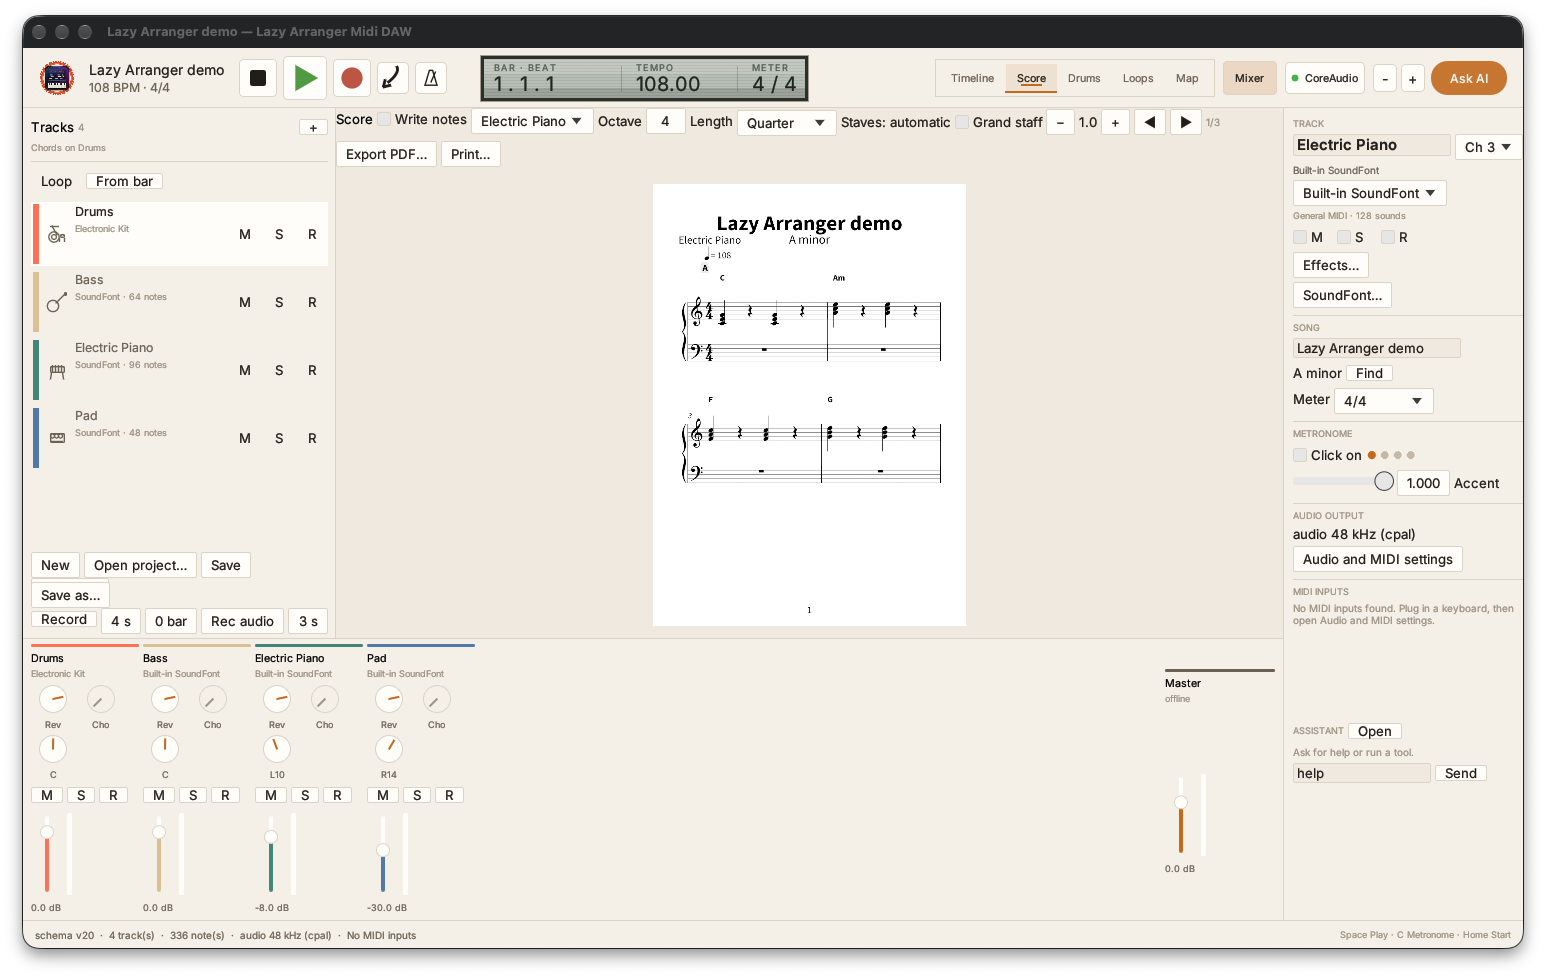
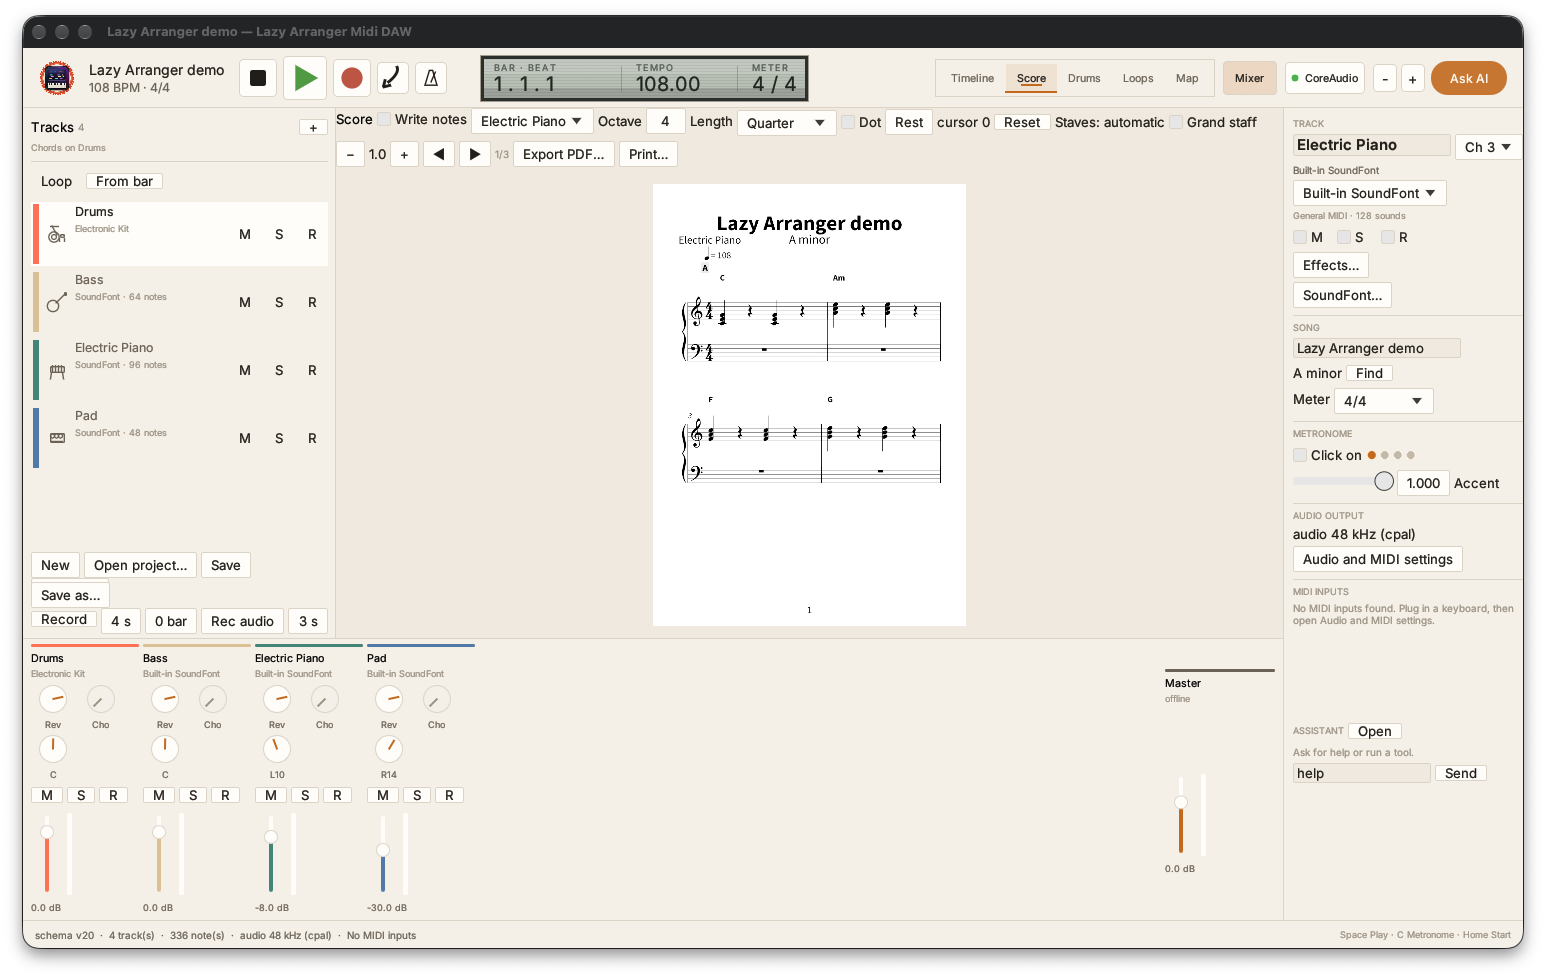
feat(score): add dotted entry, rests and a cursor
Keyboard note entry now advances through an entry cursor, supports dotted
lengths and a Rest button; cursor Reset returns to tick zero.

752 tests pass; clippy, fmt and rustdoc clean.

Changed region(s): [[0.5589, 0.092, 0.8072, 0.1534], [0.2173, 0.1227, 0.4347, 0.184]]

diff --git a/apps/desktop/src/app.rs b/apps/desktop/src/app.rs
@@ -527,6 +527,14 @@ fn style_preview_song(style: &arranger::style::Style) -> Result<project::Song, S
     Ok(song)
 }
 
+fn entry_length(base: music_core::Tick, dotted: bool) -> music_core::Tick {
+    if dotted {
+        base.saturating_mul(3) / 2
+    } else {
+        base
+    }
+}
+
 fn score_key_pitch(key: egui::Key, octave: i32) -> Option<u8> {
     let semitone = match key {
         egui::Key::A => 0,
@@ -902,6 +910,8 @@ pub struct ShellApp {
     score_entry: bool,
     score_octave: i32,
     score_note_length: music_core::Tick,
+    score_dotted: bool,
+    score_cursor: music_core::Tick,
     score_page: usize,
     score_zoom: f32,
     score_grand: bool,
@@ -1214,6 +1224,8 @@ impl ShellApp {
             score_entry: false,
             score_octave: 4,
             score_note_length: music_core::PPQ,
+            score_dotted: false,
+            score_cursor: 0,
             score_page: 0,
             score_zoom: 1.0,
             score_grand: std::env::var("ARRANGER_GRAND").is_ok_and(|value| value == "1"),
@@ -11193,6 +11205,17 @@ impl eframe::App for ShellApp {
                                         );
                                     }
                                 });
+                            ui.checkbox(&mut self.score_dotted, "Dot");
+                            if ui.button("Rest").on_hover_text("Advance the entry cursor").clicked() {
+                                self.score_cursor += entry_length(
+                                    self.score_note_length.max(1),
+                                    self.score_dotted,
+                                );
+                            }
+                            ui.label(format!("cursor {}", self.score_cursor));
+                            if ui.small_button("Reset").clicked() {
+                                self.score_cursor = 0;
+                            }
                             ui.label("Staves: automatic");
                             ui.checkbox(&mut self.score_grand, "Grand staff");
                             if ui.button("−").clicked() {
@@ -12816,6 +12839,12 @@ mod tests {
             vec!["Alpha", "Beta_2"]
         );
         assert!(printers_from_lpstat("no printers").is_empty());
+    }
+
+    #[test]
+    fn dotted_entry_lengths_are_three_halves() {
+        assert_eq!(entry_length(music_core::PPQ, false), music_core::PPQ);
+        assert_eq!(entry_length(music_core::PPQ, true), music_core::PPQ * 3 / 2);
     }
 
     #[test]

diff --git a/docs/audit/cpp-features-crosscheck.md b/docs/audit/cpp-features-crosscheck.md
@@ -22,7 +22,7 @@ section below is a row, so nothing is skipped. Status: **verified**,
 | 13 | Smart chords | partial | Chord parsing, transposition, progression text, roman numerals in the chosen key, chord lane with K entry, 16 key-aware pads, and a suggestion function with dialog buttons. Reharmonize rules and dialog. Find Chords from the Music (pitch-class recognition, slash bass) and a Chords from audio window that analyses in the background and writes recognised segments to the song (`docs/audit/audio-chords.png`). Inversions/voicings as ascending pitch sets with A/B WAV audition (`voicing C --out-dir` wrote a.wav and b.wav). A Settings toggle detects chords after MIDI recording and a Launchkey pad preset maps notes 36-51 to pad audition; held MIDI notes display a recognised chord in Perform and the Inspector, and drive the style player; an Inspector button writes the held chord at the playhead with one undo step; no continuous chord capture |
 | 14 | Styles | partial | Yamaha open, import, compile on chords, **save container (SFF1/SFF2, real 15-section style rewritten)**; `style_from_clips` (MCP), `style-from-clips` (CLI) and a Windows > Style from clips dialog build an SFF from a project's tracks with default channel rules; `--from-markers` writes one section per marker (demo: A and B, 8 bars each, 168 notes each, re-read cleanly), otherwise one section from `--length`; dialog capture `docs/audit/style-clips.png`. Track program and bank-select events now round-trip through the SMF reader/writer and the style writer and are editable from the Inspector Bank row; a Style file player loads a Yamaha style, selects a section, takes a chord, shows the written chord/tempo/length and auditions with optional loop (`docs/audit/style-file.png`); Korg, live keyboard chords, next-bar section queues, XG voices and the SInt setup region remain absent; a basic rules editor (destination channel, written root/type, NTR/NTT, held-note RTR, bass, high key/limits) edits the style draft before export, and an Audition button renders the style to a temporary song and plays it. Catalog resolution by number or name (`style-resolve`) matched a real library entry; a PCG scanner now recognises the KORG marker and model name only, with no program or combi decoding |
 | 15 | Style from Audio and Link | partial | Link→monophonic MIDI; `style-from-audio` turns a decoded audio file's monophonic detected notes into a one-part SFF, with `--chord auto` picking the strongest chroma-recognized chord (C-major chord test: source C, re-read C); generated rules now carry the source chord. `--split-parts` separates notes below C3 into Bass (channel 11) and the rest into Chord 1 (channel 12); `--section-bars` makes uniform sections (6-second low/high fixture: Main A and Main B, one bar each, durations clipped at boundaries). An optional Drums part is derived from onsets and low/high band energy (low hit test maps to kick 36); `--detect-tempo` estimates BPM from onset spacing (click fixture: 119.68 bpm); the same builder is exposed by the desktop dialog (`docs/audit/style-from-audio.png`), CLI and MCP. No analysis-driven section names, stems or match scores |
-| 16 | Score view | partial | MusicXML export/import with `<harmony>` chords, drum instrument ids, `<sound dynamics>`, slurs and a round-trip audit. On the demo tracks, chords (16), lyrics (2), marks (2), drums and the pitched detail are preserved (186 = 186 after merging 22 ties). A style-derived project with mixed drum/pitched tracks and overlapping notes now keeps all 1,423 pitched notes (counts and tie merges), but one chord-group note starts at a different tick inside an overlap; `<backup>` was added for overlaps, and MusicXML still cannot express every simultaneous overlap we hold, which is recorded as a limitation plus a toolkit-independent layout engine (pages, systems, measures, positioned notes, CLI report). An egui page canvas renders staff lines, barlines, noteheads, page navigation and zoom from the layout. Key detection, spelling, accidentals, canvas, vector PDF, per-pitch ties and a lyric line (40-bar two-page acceptance test). Dynamics and articulations are marks in schema v11, exchanged as MusicXML directions and drawn by both renderers. Note entry: with Note entry enabled, a click inserts at a quarter-quantised tick, and A-W-S-E-D-F-T-G-Y-H-U-J type a chromatic octave at the playhead (octave and Whole/Half/Quarter/Eighth/16th length pickers);  and the staff pitch through one undoable command. A grand-staff toggle, beams, tuplet brackets, ties, rests in gaps/empty measures, augmentation dots (notes and rests) and articulation glyphs now draw on canvas and PDF; phrase slurs (schema v18) draw as curves, are exposed by `get_slurs`/`set_slurs` and round-trip as MusicXML `<slur>` notations; a drum track gets a one-line percussion staff with x noteheads on canvas and PDF; lyrics shift right when crowded; chord names are drawn above the staff on canvas and PDF, common major/minor/seventh chords get guitar frames (slash chords or unlisted qualities get none); the Score view has a path field, Save PDF and a Print dialog with printer, copies and page ranges via `lp`; chord names and guitar frames draw on canvas and PDF with a top reserve, the song title draws inside the page margin, one lyric per chord tick, PDF text uses the dark fill; four 4/4 measures fit a system and the song meter draws at each system start, measure numbers draw above the staff, `docs/audit/score-page.png` shows the balanced layout, and a headless test checks canvas text; and a headless egui test verifies the canvas title, chord name and measure number shapes; dense rhythms widen their measures and crowded accidentals shift left; Shift-drag resizes a note's duration (quarter-quantised); augmentation dots move into the space above when their notehead or rest sits on a staff line (no other vertical rest collision handling); The primary Score view and PDF now use the bundled Cecilia 0.51 engraver through a Song→Cecilia adapter (key signature and subtitle, G/F clefs, grand staff, tempo and chords, PNG pages); the legacy vector editor remains behind the Cecilia-preview toggle; printing uses `lp`, not an OS print panel |
+| 16 | Score view | partial | MusicXML export/import with `<harmony>` chords, drum instrument ids, `<sound dynamics>`, slurs and a round-trip audit. On the demo tracks, chords (16), lyrics (2), marks (2), drums and the pitched detail are preserved (186 = 186 after merging 22 ties). A style-derived project with mixed drum/pitched tracks and overlapping notes now keeps all 1,423 pitched notes (counts and tie merges), but one chord-group note starts at a different tick inside an overlap; `<backup>` was added for overlaps, and MusicXML still cannot express every simultaneous overlap we hold, which is recorded as a limitation plus a toolkit-independent layout engine (pages, systems, measures, positioned notes, CLI report). An egui page canvas renders staff lines, barlines, noteheads, page navigation and zoom from the layout. Key detection, spelling, accidentals, canvas, vector PDF, per-pitch ties and a lyric line (40-bar two-page acceptance test). Dynamics and articulations are marks in schema v11, exchanged as MusicXML directions and drawn by both renderers. Note entry: with Note entry enabled, a click inserts at a quarter-quantised tick, and A-W-S-E-D-F-T-G-Y-H-U-J type a chromatic octave at the playhead (octave and Whole/Half/Quarter/Eighth/16th length pickers, a Dot toggle, a Rest advance and a resetable entry cursor);  and the staff pitch through one undoable command. A grand-staff toggle, beams, tuplet brackets, ties, rests in gaps/empty measures, augmentation dots (notes and rests) and articulation glyphs now draw on canvas and PDF; phrase slurs (schema v18) draw as curves, are exposed by `get_slurs`/`set_slurs` and round-trip as MusicXML `<slur>` notations; a drum track gets a one-line percussion staff with x noteheads on canvas and PDF; lyrics shift right when crowded; chord names are drawn above the staff on canvas and PDF, common major/minor/seventh chords get guitar frames (slash chords or unlisted qualities get none); the Score view has a path field, Save PDF and a Print dialog with printer, copies and page ranges via `lp`; chord names and guitar frames draw on canvas and PDF with a top reserve, the song title draws inside the page margin, one lyric per chord tick, PDF text uses the dark fill; four 4/4 measures fit a system and the song meter draws at each system start, measure numbers draw above the staff, `docs/audit/score-page.png` shows the balanced layout, and a headless test checks canvas text; and a headless egui test verifies the canvas title, chord name and measure number shapes; dense rhythms widen their measures and crowded accidentals shift left; Shift-drag resizes a note's duration (quarter-quantised); augmentation dots move into the space above when their notehead or rest sits on a staff line (no other vertical rest collision handling); The primary Score view and PDF now use the bundled Cecilia 0.51 engraver through a Song→Cecilia adapter (key signature and subtitle, G/F clefs, grand staff, tempo and chords, PNG pages); the legacy vector editor remains behind the Cecilia-preview toggle; printing uses `lp`, not an OS print panel |
 | 17 | Mixer and buses | partial | Tracks carry fader, pan, mute/solo and automation; buses (schema v13) have volume and pan, tracks route to a bus and can send a copy at a level, and the render sums bus buffers after the tracks. Mix view shows bus rows with volume/pan/remove and an Add bus action plus a per-track routing picker (`docs/audit/mix.png`). Mix rows add a send-bus picker and send-level slider over the same routing command; Loops slots have a right-click menu for clear, one-bar length and copy to playhead. Master gain and a soft limiter apply to playback and `export-audio` (`--gain-db`, `--no-limiter`), and the export prints peak/RMS; master reverb and chorus wet amounts (feedback-delay reverb and modulated-delay chorus, applied after gain before the limiter) are settable in the Mixer and Settings and used by playback/`export-audio --reverb/--chorus`; master peak/RMS bars and per-track peak badges draw while playing (track levels come from offline stems; other master effects absent) |
 | 18 | Automation | partial | Volume and pan lanes with linear interpolation and held ends, applied per note in the render, edited through one undoable command. Arrange shows a volume lane for the selected track; clicking adds a point, clicking a point removes it, and each edit is one command. the automation target picker covers Volume, Pan, Send and Brightness; track plug-in parameter lanes (`plugin:slot:param`) render block-by-block for VST3 and AU effects, added by numeric slot/param controls or the per-parameter A button in the AU/VST3 windows; the test gain plug-in verifies VST3 level changes and an ignored Apple dynamics test verifies AU mapping; bus/master plug-in lanes and MIDI-port automation remain absent |
 | 19 | VST3/AU plugins | partial | `Track.plugins` slots (id, name, format VST3/AU, path, identifier, bypass, opaque state) with one undoable `SetPlugins` command and duplicate/no-name validation. The standard-folder scan found 21 bundles here (17 AU, 4 VST3); `plugin-scan` and `plugin_scan` expose them. My Plug-Ins (`docs/audit/plugins.png`) and the Mixer Plugins panel add/bypass/remove/move slots (undoable reorder). The manager reads AU `Info.plist`, VST3 `moduleinfo.json` and, when needed, scans a VST3 bundle in the `lazy-arranger-plugin-scan` child (five-second timeout, in-process fallback if the helper is absent); the catalog is cached as JSON. Failed VST3 child scans are appended to `lazy-arranger-plugin-blocklist.json`, skipped next time, and can be cleared from My Plug-Ins; a blocklist unit test covers filtering. `plugin-host` also hosts VST3 effects (component/controller, host application, buses, stereo `ProcessData`) and macOS AU effects (`AudioUnitProcess`); non-bypassed slots run in offline track render. R0Verb VST3 and Apple AUDynamicsProcessor wet/dry tests pass; R0Verb's AU instance returns -3000 and is skipped. VST3 component state is saved/restored as base64: a Mixer **Capture** button stores the current state in the slot, and render restores it (R0Verb round-trip). AU parameters are enumerable/settable (Apple AUDynamicsProcessor readback); a generic AU parameters window edits values, saves `id=value;` into slot state and render restores it. VST3 parameters still have no UI/automation. AU instrument hosting exists (`AuInstrument`, Apple DLSMusicDevice note-render test) and tracks with a non-bypassed AU instrument slot render their notes through it with sample offsets inside 512-frame blocks (wet/dry test); VST3 instruments are hosted (`Vst3Instrument`, MIDI event list, stereo blocks); a track with a pure VST3 instrument slot renders through it, audible output is verified with the local test synth; the installed LABS still has no library. The generic AU parameter window opens instruments as well as effects. Parameter automation, editors, sandbox scanning and instrument plug-ins remain absent |

diff --git a/docs/audit/final-status.md b/docs/audit/final-status.md
@@ -165,4 +165,4 @@ For the clef layout, choose either four measures per system without clefs
 - Kids circle pulse respects the reduced-motion setting.
 - Audio trim row can set the front or end at the playhead (`docs/audit/ui-audio-trim.png`).
 - Smoke test draws 29 tool windows in one egui frame without panicking.
-- Score note entry accepts computer-keyboard A-W-S-E-D-F-T-G-Y-H-U-J at the playhead with octave and note-length pickers; both tested.
+- Score note entry accepts computer-keyboard A-W-S-E-D-F-T-G-Y-H-U-J at the playhead with octave and note-length pickers, dotted notes, rests and an entry cursor; mapping/length tested.
